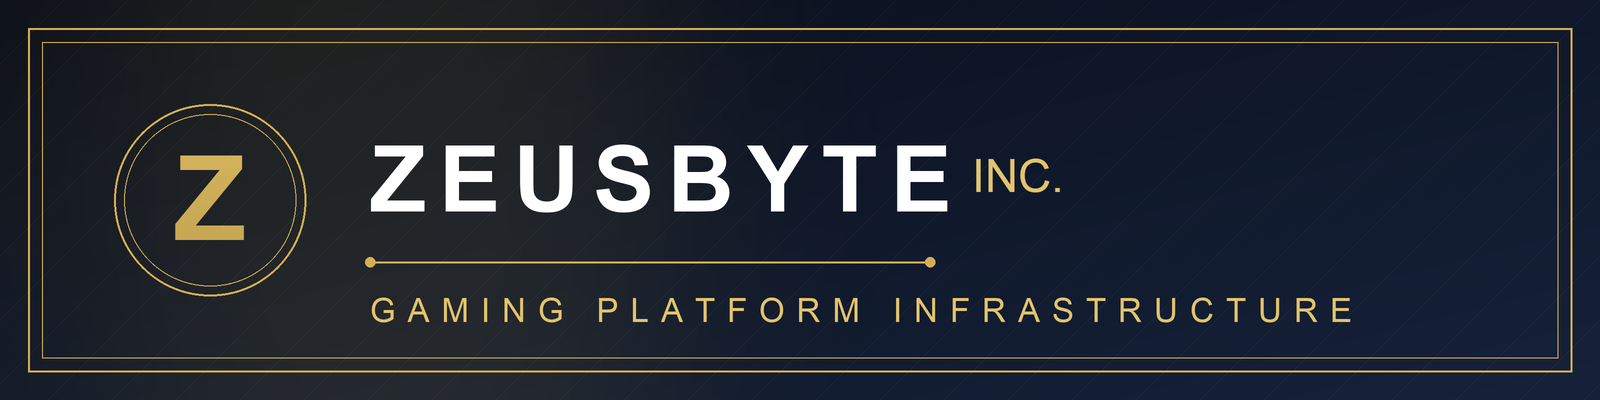
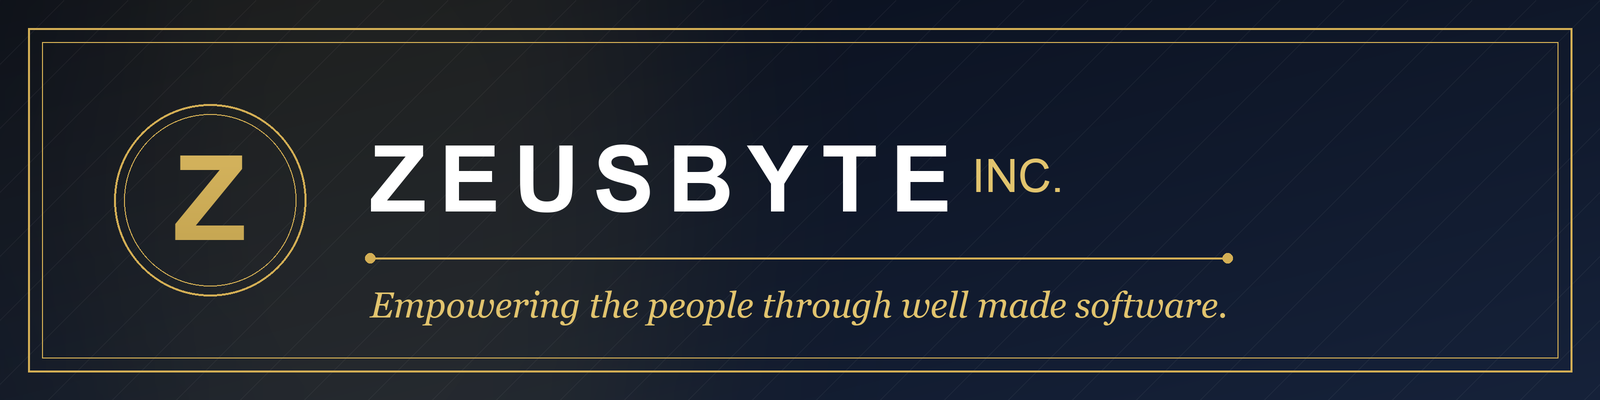
Adopt signature tagline: Empowering the people through well made software

Changed region(s): [[0.2188, 0.72, 0.8438, 0.81], [0.2188, 0.63, 0.7812, 0.66]]

diff --git a/README.md b/README.md
@@ -1,6 +1,6 @@
 <p align="center"><img src="banner.png" alt="Zeusbyte Inc. — Gaming Platform Infrastructure" width="832"></p>
 
-Independent developer of gaming platform infrastructure.
+Empowering the people through well made software.
 
 ## Projects
 
